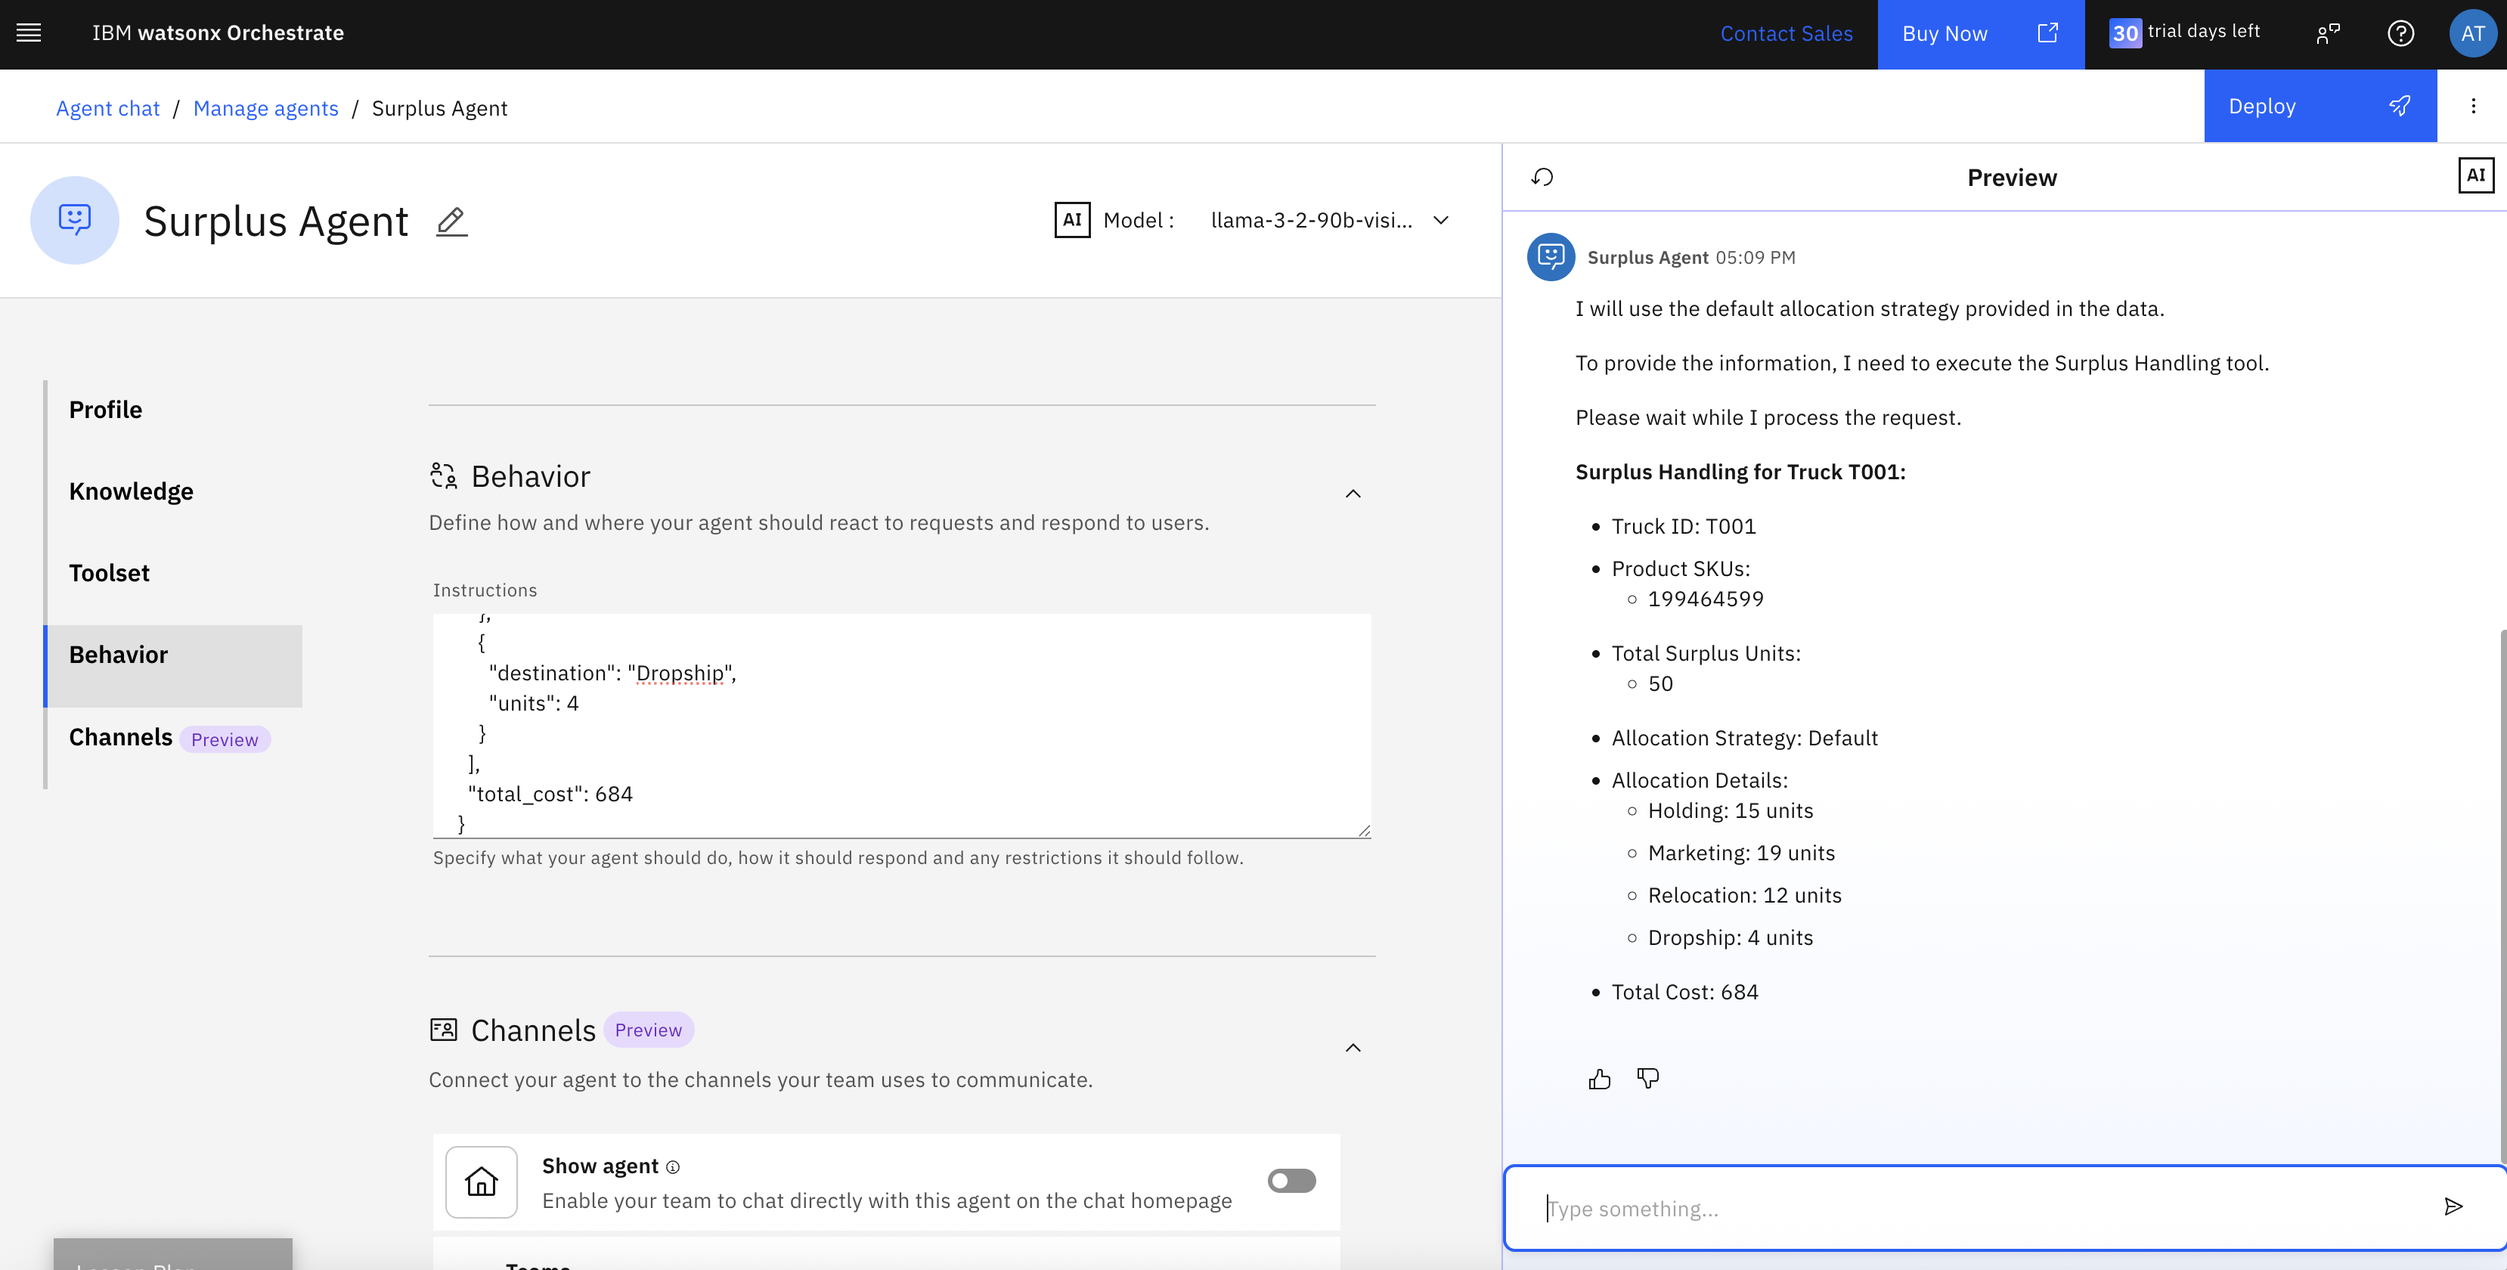
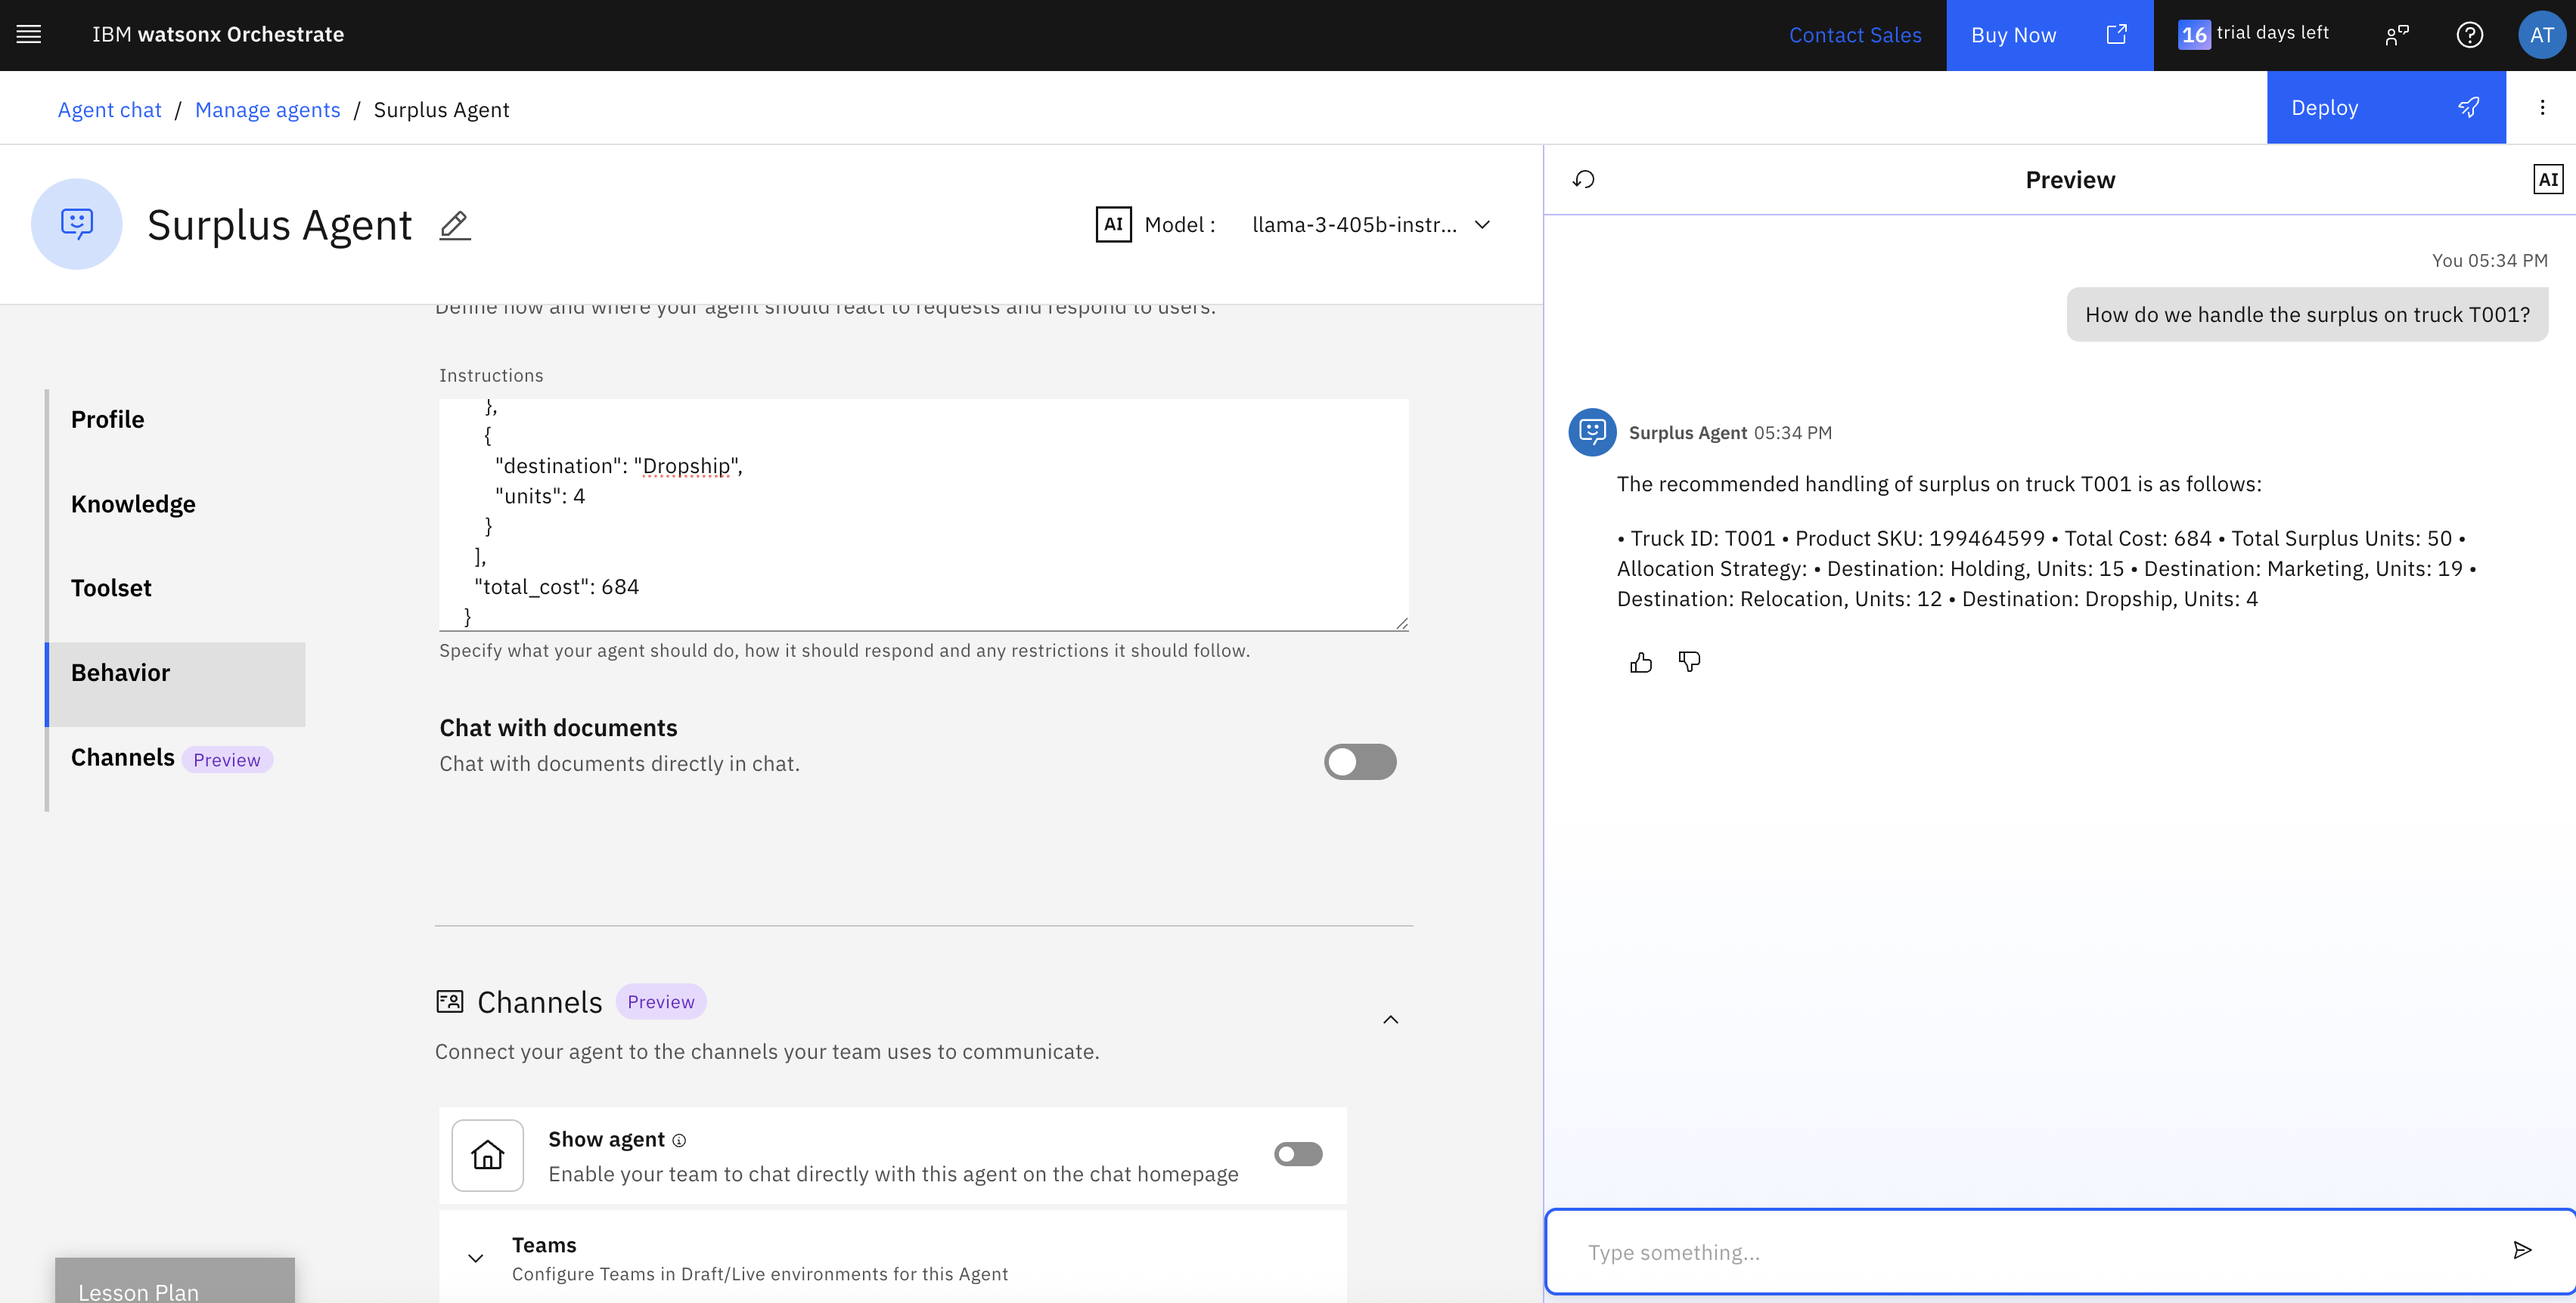
updates to model used in Intelligent Assistant

diff --git a/usecases/intelligent-assistant/Intelligent AI Assistant.md b/usecases/intelligent-assistant/Intelligent AI Assistant.md
@@ -94,6 +94,14 @@ On the following screen, we can enter more information about the new agent we ar
   - `Tools` are functions an agent can call. It can be either an API call or an invocation of custom code. This allows to extend the agent's capabilitiy beyond what the LLM has been trained with.
   - `Agents` are other agents, either within watsonx Orchestrate or running externally, e.g., in watsonx.ai that this agent can delegate the request, or part of a request, to.
 
+Moreover, you can specify the Large Language Model that he agent will use, as well as the "style" of the agent. For this agent (as well as all others below), we will pick the `llama-3-405b-instruct` model. 
+
+![alt text](images/image35.png)
+
+For the style, we will pick the `ReAct` style.
+
+![alt text](images/image36.png)
+
 In a real production deployment, the Dock Status agent would sit in front of an existing enterprise backend system that can provide up-to-date data about trucks currently sitting at warehouse docks, and keep track of products and their quantity that are being unloaded.
 However, in this hands-on exercise, we will simulate that backend by simply hardcoding the data into the `Behavior` field of the agent. The content of this field drive the prompts that are sent to the underlying LLM, and adding the hardcoded data equates to providing examples in the prompt. So, for the purpose of simulating data stemming from an enterprise system, we can use this workaround. Note how the instructions provide detailed information about both the persona and the context this agent operates with.
 
@@ -181,7 +189,7 @@ Let's now test the new agent. In the Preview window, enter a question for the ag
 
 ![alt text](images/image7.png)
 
-> When doing this in your own instance, you may see answers that differ from the ones shown in the screenshot above. Moreover, the agent will often ask follow-up questions before offering an answer. This is due to the undeterministic nature of the AI models involved. Feel free to experiment with different types of questions to see how the agent reacts. The same equally applies to all the agents described further down.
+> When doing this in your own instance, you may see answers that differ from the ones shown in the screenshot above. In some cases, the agent might ask follow-up questions before offering an answer. This is due to the undeterministic nature of the AI models involved. Feel free to experiment with different types of questions to see how the agent reacts. The same equally applies to all the agents described further down.
 
 You can now go ahead and deploy the agent, using the `Deploy` button at the top right of the page.
 
@@ -213,7 +221,7 @@ The Surplus Agent provides recommendations about the handling of surplus data. I
 
 Then click on `Create`.
 
-In the following view, scroll all the way down to the `Behavior` section, and enter the following into the `Instructions` field:
+In the following view, select the `llama-3-405b-instruct` model and set the agent style to `RAct`. Then scroll all the way down to the `Behavior` section, and enter the following into the `Instructions` field:
 ```
 Persona:
 - Your purpose is to provide information about surplus. I will ask about the recommended handling of surplus on a specific truck, and you will answer in a detailed format with the allocation strategy based on the given data, along with truck id, Product SKU, total cost, surplus unit.
@@ -295,7 +303,7 @@ Click on Create agent and enter the following:
 The Secretary Agent specializes in creating emails related to warehouse topics. 
 ```
 
-Then click on Create and add the following text to the `Instructions` field in the Behavior section:
+Then click on Create. Select the `llama-3-405b-instruct` model (leave the agent style on `Default`) and add the following text to the `Instructions` field in the Behavior section:
 ```
 Persona:
 - Your persona is that of a secretary that drafts emails. I will ask you to create an email about a topic, and you will return a textual draft of that email.
@@ -379,6 +387,8 @@ The Warehouse Manager Agent is in charge of routing user requests to the most re
 After you have entered the information, click on `Create`.
 
 ![alt text](images/image17.png)
+
+And as before, change the model to `llama-3-405b-instruct` and set the agent style to `ReAct`.
 
 We had mentioned above that an agent can collaborate with other agents to fulfill a certain task. You enter those collaborator agents in the `Agents` section under `Toolset` in the agent definition window.
 
